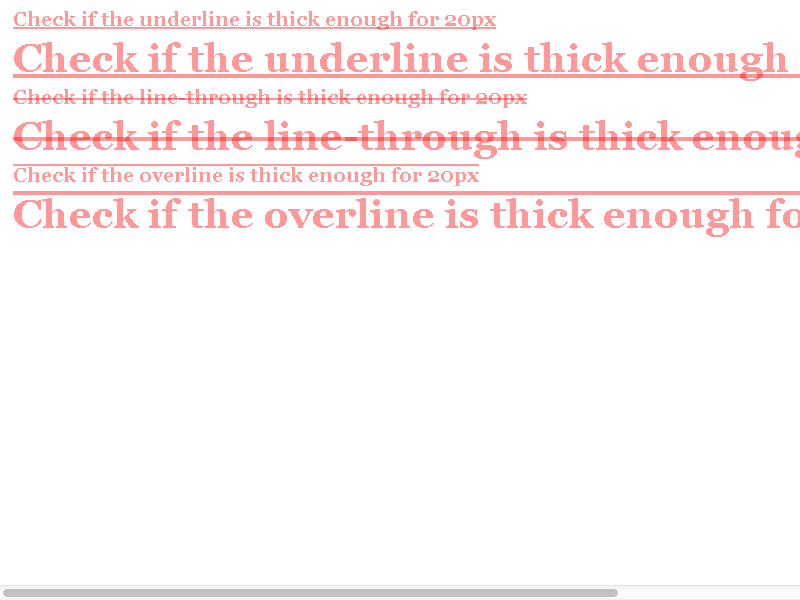
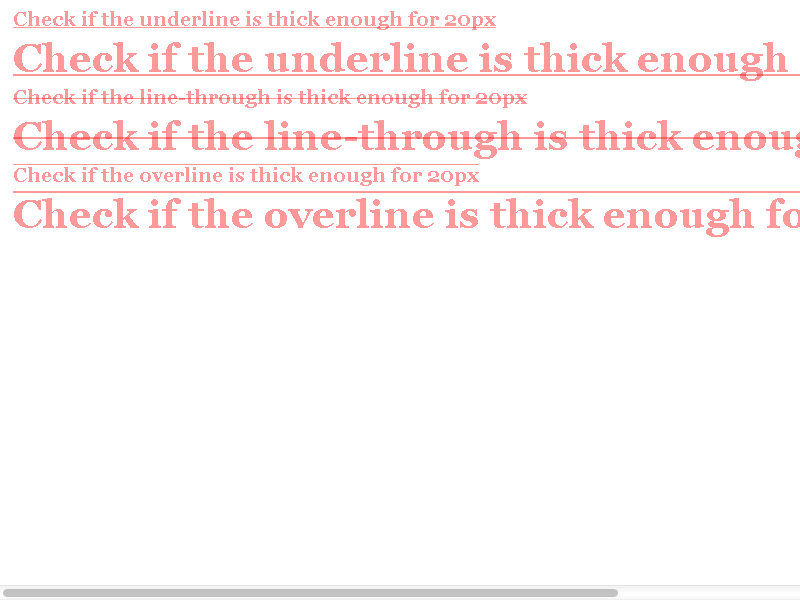
To draw underline currently Chrome is depending on Font Size taking 10% Font Size as underline thickness which is not correct. Font properties should be taken into account to calculate underline thickness. Following change does the same, some Skia files are also updated for this change.
Blink and Skia git repo are different so added two more patches related to Skia changes only.
https://codereview.chromium.org/148453005/
https://codereview.chromium.org/137543008/
 and made this patch Skia independent.

BUG=338148

Review URL: https://codereview.chromium.org/147703002

git-svn-id: svn://svn.chromium.org/blink/trunk@166890 bbb929c8-8fbe-4397-9dbb-9b2b20218538

Changed region(s): [[0.0312, 0.3, 1.0, 0.33], [0.0312, 0.21, 1.0, 0.24], [0.0312, 0.12, 1.0, 0.15]]

diff --git a/Source/platform/fonts/mac/SimpleFontDataMac.mm b/Source/platform/fonts/mac/SimpleFontDataMac.mm
@@ -155,7 +155,7 @@ void SimpleFontData::platformInit()
             fallbackFontFamily = @"Times New Roman";
         else
             fallbackFontFamily = webFallbackFontFamily();
-        
+
         // Try setting up the alternate font.
         // This is a last ditch effort to use a substitute font when something has gone wrong.
 #if !ERROR_DISABLED
@@ -195,11 +195,12 @@ void SimpleFontData::platformInit()
         WTF_LOG_ERROR("failed to set up font, using system font %s", m_platformData.font());
         initFontData(this);
     }
-    
+
     int iAscent;
     int iDescent;
     int iLineGap;
     unsigned unitsPerEm;
+
     iAscent = CGFontGetAscent(m_platformData.cgFont());
     // Some fonts erroneously specify a positive descender value. We follow Core Text in assuming that
     // such fonts meant the same distance, but in the reverse direction.
@@ -211,6 +212,7 @@ void SimpleFontData::platformInit()
     float ascent = scaleEmToUnits(iAscent, unitsPerEm) * pointSize;
     float descent = -scaleEmToUnits(iDescent, unitsPerEm) * pointSize;
     float lineGap = scaleEmToUnits(iLineGap, unitsPerEm) * pointSize;
+    float underlineThickness = CTFontGetUnderlineThickness(m_platformData.ctFont());
 
     // We need to adjust Times, Helvetica, and Courier to closely match the
     // vertical metrics of their Microsoft counterparts that are the de facto
@@ -230,7 +232,7 @@ void SimpleFontData::platformInit()
         lineGap -= 3 - descent;
         descent = 3;
     }
-    
+
     if (platformData().orientation() == Vertical && !isTextOrientationFallback())
         m_hasVerticalGlyphs = fontHasVerticalGlyphs(m_platformData.ctFont());
 
@@ -253,6 +255,7 @@ void SimpleFontData::platformInit()
     m_fontMetrics.setDescent(descent);
     m_fontMetrics.setLineGap(lineGap);
     m_fontMetrics.setXHeight(xHeight);
+    m_fontMetrics.setUnderlineThickness(underlineThickness);
 }
 
 static CFDataRef copyFontTableForTag(FontPlatformData& platformData, FourCharCode tableName)
@@ -264,7 +267,7 @@ void SimpleFontData::platformCharWidthInit()
 {
     m_avgCharWidth = 0;
     m_maxCharWidth = 0;
-    
+
     RetainPtr<CFDataRef> os2Table(AdoptCF, copyFontTableForTag(m_platformData, 'OS/2'));
     if (os2Table && CFDataGetLength(os2Table.get()) >= 4) {
         const UInt8* os2 = CFDataGetBytePtr(os2Table.get());

diff --git a/Source/core/rendering/InlineTextBox.cpp b/Source/core/rendering/InlineTextBox.cpp
@@ -1084,7 +1084,13 @@ void InlineTextBox::paintDecoration(GraphicsContext* context, const FloatPoint& 
     size_t shadowCount = shadowList ? shadowList->shadows().size() : 0;
     // Set the thick of the line to be 10% (or something else ?)of the computed font size and not less than 1px.
     // Using computedFontSize should take care of zoom as well.
-    const float textDecorationThickness = std::max(1.f, styleToUse->computedFontSize() / 10.f);
+
+    // Update Underline thickness, in case we have Faulty Font Metrics calculating underline thickness by old method.
+    float textDecorationThickness = styleToUse->fontMetrics().underlineThickness();
+    int fontHeightInt  = (int)(styleToUse->fontMetrics().floatHeight() + 0.5);
+    if ((textDecorationThickness == 0.f) || (textDecorationThickness >= (fontHeightInt >> 1)))
+        textDecorationThickness = std::max(1.f, styleToUse->computedFontSize() / 10.f);
+
     context->setStrokeThickness(textDecorationThickness);
 
     float extraOffset = 0;

diff --git a/Source/platform/fonts/FontMetrics.h b/Source/platform/fonts/FontMetrics.h
@@ -37,6 +37,7 @@ public:
         , m_lineSpacing(0)
         , m_xHeight(0)
         , m_zeroWidth(0)
+        , m_underlinethickness(0)
         , m_hasXHeight(false)
         , m_hasZeroWidth(false)
     {
@@ -122,6 +123,9 @@ public:
     bool hasZeroWidth() const { return m_hasZeroWidth; }
     void setHasZeroWidth(bool hasZeroWidth) { m_hasZeroWidth = hasZeroWidth; }
 
+    float underlineThickness() const { return m_underlinethickness; }
+    void setUnderlineThickness(float underlineThickness) { m_underlinethickness = underlineThickness; }
+
 private:
     friend class SimpleFontData;
 
@@ -134,6 +138,7 @@ private:
         m_lineSpacing = 0;
         m_xHeight = 0;
         m_hasXHeight = false;
+        m_underlinethickness = 0;
     }
 
     unsigned m_unitsPerEm;
@@ -143,6 +148,7 @@ private:
     float m_lineSpacing;
     float m_xHeight;
     float m_zeroWidth;
+    float m_underlinethickness;
     bool m_hasXHeight;
     bool m_hasZeroWidth;
 };

diff --git a/Source/platform/fonts/skia/SimpleFontDataSkia.cpp b/Source/platform/fonts/skia/SimpleFontDataSkia.cpp
@@ -133,6 +133,12 @@ void SimpleFontData::platformInit()
     m_fontMetrics.setLineGap(lineGap);
     m_fontMetrics.setLineSpacing(lroundf(ascent) + lroundf(descent) + lroundf(lineGap));
 
+    // For now Skia does not support underline Thickness, once patch is comitted we can uncomment following
+    // code, till then setting Underline Thickness to Zero so that default calculation is done.
+    // float underlineThickness = SkScalarToFloat(metrics.fUnderlineThickness);
+    // m_fontMetrics.setUnderlineThickness(underlineThickness);
+    m_fontMetrics.setUnderlineThickness(0.f);
+
     if (platformData().orientation() == Vertical && !isTextOrientationFallback()) {
         static const uint32_t vheaTag = SkSetFourByteTag('v', 'h', 'e', 'a');
         static const uint32_t vorgTag = SkSetFourByteTag('V', 'O', 'R', 'G');
